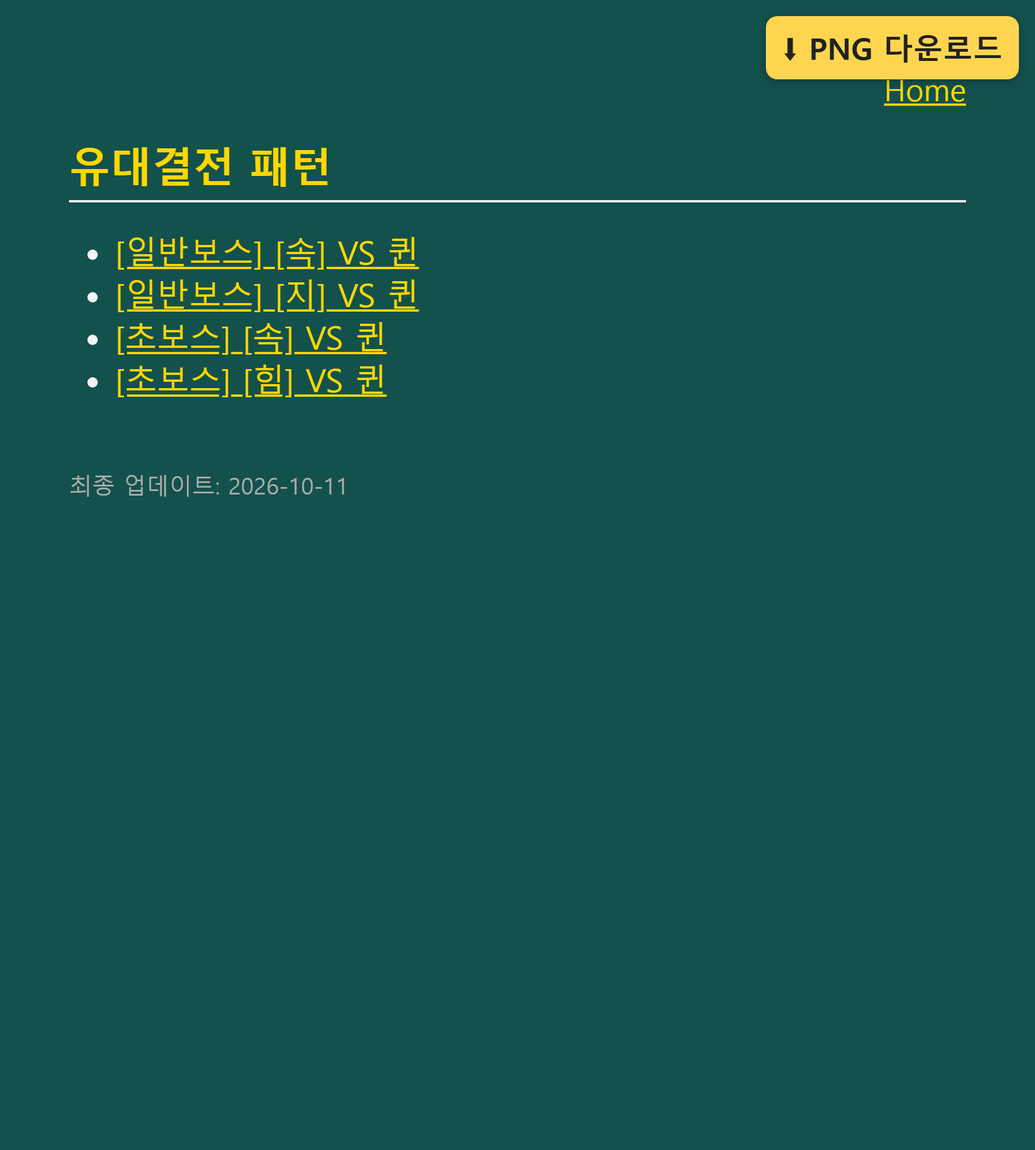
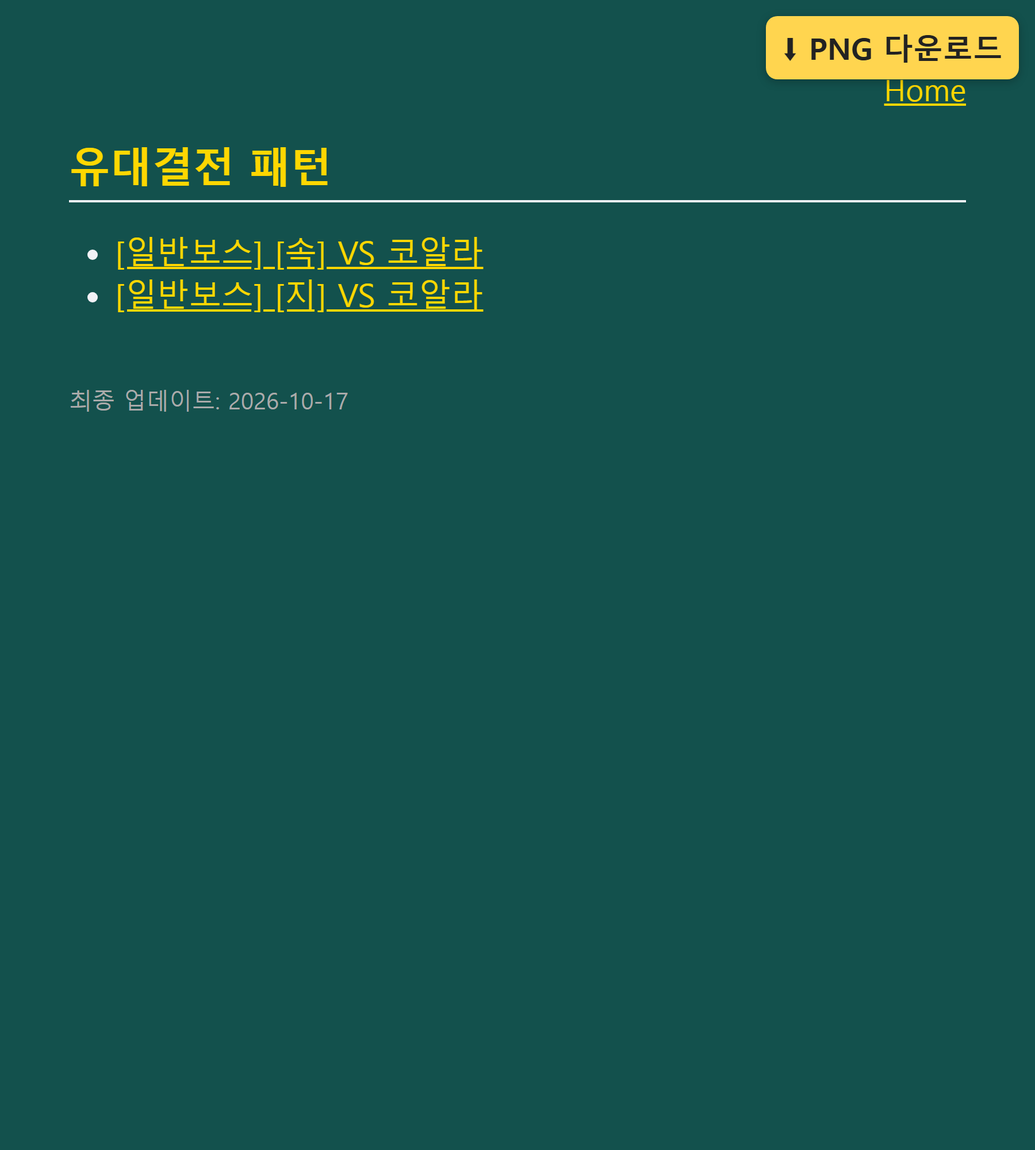
변경

Changed region(s): [[0.0622, 0.279, 0.3733, 0.372], [0.3733, 0.186, 0.4667, 0.279], [0.0622, 0.403, 0.3111, 0.434]]

diff --git a/KIZUNA_BOSS2.html b/KIZUNA_BOSS2.html
@@ -17,7 +17,7 @@
 </style>
 </head>
 <body>
-       <h1>VS 퀸</h1>
+       <h1>VS 코알라</h1>
        <div style="font-size: 32px; color: #f9f871; font-weight: bold; margin-bottom: 12px;"><span style="color:#7515A1; font-weight:bold;">일반보스</span> <span style="color:#7515A1; font-weight:bold;">[지]</span></div>
 <h3>Stage 1:</h3>
 <span class="label-preemptive">선제 행동:</span><br>
@@ -27,30 +27,36 @@
 <div class="icon-line"><img src="img/common_run.png">도주</div>
 <br>
 <h3>Stage 2:</h3>
-<span class="label-initial" style="color:#87cefa">초기 상태: 샬롯 페로스페로</span><br>
+<span class="label-initial" style="color:#87cefa">초기 상태: 소울 킹 할로윈 아티스트</span><br>
 <div class="icon-line"><img src="img/common_icon_mighty_guard_00.png">상태이상 무효</div>
 <div class="icon-line"><img src="img/common_icon_damage_onlyone.png">일반 공격 이외의 데미지 1</div>
 <span class="label-preemptive">선제 행동:</span><br>
-<div class="icon-line"><img src="img/common_despair.png">9턴 동안 상단의 선장효과 무효</div>
-<div class="icon-line"><img src="img/common_palsy.png">6턴 동안 마비</div>
-<div class="icon-line"><img src="img/common_special_reverse.png">필살기 턴을 3턴 되돌리기</div>
-<div class="icon-line"><img src="img/popuptext_slot_cooperation.png">[공백][힘][기][속][심][지][G][고기][연][폭탄] 슬롯을 [연] 슬롯으로 변환</div>
-<div class="icon-line"><img src="img/common_slot_lock.png">1턴 동안 슬롯 고정</div>
+<div class="icon-line"><img src="img/common_damage.png">남은 체력의 50% 비율 데미지</div>
+<div class="icon-line"><img src="img/common_guts_icon.png">3턴 동안 남은 체력 1로 버티기 효과</div>
+<div class="icon-line"><img src="img/common_territory.png">1턴 동안 장소를 ‘구역: 적’(으)로 만든다</div>
+<div class="icon-line"><img src="img/popuptext_slot_obstacle.png">[공백][힘][기][속][심][지][G][고기][연][폭탄] 슬롯을 [방해] 슬롯으로 변환</div>
 <br>
 <h3>Stage 3:</h3>
 <div style="color: gold; font-weight: bold;">Lv1~Lv20의 경우</div>
-<span class="label-initial" style="color:#87cefa">초기 상태: 퀸</span><br>
-<div class="icon-line"><img src="img/common_icon_mighty_guard_00.png">상태이상 무효</div>
+<span class="label-initial" style="color:#87cefa">초기 상태: 코알라 할로윈 배틀 파티</span><br>
 <div class="icon-line"><img src="img/common_icon_damage_onlyone.png">일반 공격 이외의 데미지 1</div>
 <div class="icon-line"><img src="img/common_icon_death_invalid.png">격파(전투 불능)계의 필살기 무효</div>
 <div class="icon-line"><img src="img/common_icon_ratio_damagedown.png">비율 데미지 내성 100%</div>
-<div class="icon-line"><img src="img/common_weak_03.png">약점 타입: 타격형</div>
+<div class="icon-line"><img src="img/common_weak_07.png">약점 타입: 박식형</div>
+<span class="label-preemptive" style="color:#87cefa">선제 행동: 일당의 체력이 70% 이하일 때</span><br>
+<div class="icon-line"><img src="img/common_icon_mighty_guard_00.png">상태이상 무효</div>
+<div class="icon-line"><img src="img/state_icon_invincible.png">2턴 동안 받는 데미지 무효</div>
+<div class="icon-line"><img src="img/common_icon_deffence_up.png">3턴 동안 방어력 10000000배</div>
+<div class="icon-line"><img src="img/common_icon_247_skill.png">2턴 동안 [힘][기][속][심][지][무지개][고기][연] 슬롯으로 공격했을 때 데미지 90% 감소</div>
+<div class="icon-line"><img src="img/common_damagecut_icon.png">6턴 동안 1000을(를) 넘는 데미지를 99% 감소</div>
+<div class="icon-line"><img src="img/common_state_icon_attack_down.png">6턴 동안 공격력 90% 감소</div>
+<div class="icon-line"><img src="img/popuptext_slot_meat.png">[공백][힘][기][속][심][지][G][고기][연][폭탄] 슬롯을 [고기] 슬롯으로 변환</div>
 <span class="label-preemptive">선제 행동:</span><br>
-<div class="icon-line"><img src="img/popuptext_slot_obstacle.png">[공백][힘][기][속][심][지][G][고기][연][폭탄] 슬롯을 [방해] 슬롯으로 변환</div>
-<div class="icon-line"><img src="img/common_bind.png">9턴 동안 중간단 봉쇄</div>
-<div class="icon-line"><img src="img/common_damagecut_icon.png">5턴 동안 1000을(를) 넘는 데미지를 99% 감소</div>
-<div class="icon-line"><img src="img/common_icon_deffence_up.png">5턴 동안 방어력 10000000배</div>
-<div class="icon-line"><img src="img/quest_combo_barrier_meat.png">2턴 동안 슬롯 배리어([고기] 슬롯 1회)</div>
+<div class="icon-line"><img src="img/common_icon_210.png">피해 데미지 증가 이외의 상태이상 무효</div>
+<div class="icon-line"><img src="img/state_icon_invincible.png">2턴 동안 받는 데미지 무효</div>
+<div class="icon-line"><img src="img/common_icon_deffence_up.png">3턴 동안 방어력 10000000배</div>
+<div class="icon-line"><img src="img/common_icon_247_skill.png">2턴 동안 [무지개][고기][연] 슬롯으로 공격했을 때 데미지 90% 감소</div>
+<div class="icon-line"><img src="img/popuptext_slot_meat.png">[공백][힘][기][속][심][지][G][고기][연][폭탄] 슬롯을 [고기] 슬롯으로 변환</div>
 <span class="label-special" style="color:#87cefa">특수 끼어들기: 아군이 일반 공격 이외의 데미지 1 상태가 아닐 경우(필살기, 초월 필살기, VS 효과, 체인지/슈퍼 체인지 발동 후)</span><br>
 <div class="icon-line">횟수 무제한</div>
 <div class="icon-line"><img src="img/common_heal.png">체력을 전부 회복</div>
@@ -60,18 +66,25 @@
 <br>
 <h3>Stage 3:</h3>
 <div style="color: gold; font-weight: bold;">Lv21~Lv30의 경우</div>
-<span class="label-initial" style="color:#87cefa">초기 상태: 퀸</span><br>
-<div class="icon-line"><img src="img/common_icon_mighty_guard_00.png">상태이상 무효</div>
+<span class="label-initial" style="color:#87cefa">초기 상태: 코알라 할로윈 배틀 파티</span><br>
 <div class="icon-line"><img src="img/common_icon_damage_onlyone.png">일반 공격 이외의 데미지 1</div>
 <div class="icon-line"><img src="img/common_icon_death_invalid.png">격파(전투 불능)계의 필살기 무효</div>
 <div class="icon-line"><img src="img/common_icon_ratio_damagedown.png">비율 데미지 내성 100%</div>
-<div class="icon-line"><img src="img/common_weak_03.png">약점 타입: 타격형</div>
+<div class="icon-line"><img src="img/common_weak_07.png">약점 타입: 박식형</div>
+<span class="label-preemptive" style="color:#87cefa">선제 행동: 일당의 체력이 70% 이하일 때</span><br>
+<div class="icon-line"><img src="img/common_icon_mighty_guard_00.png">상태이상 무효</div>
+<div class="icon-line"><img src="img/state_icon_invincible.png">4턴 동안 받는 데미지 무효</div>
+<div class="icon-line"><img src="img/common_icon_deffence_up.png">3턴 동안 방어력 10000000배</div>
+<div class="icon-line"><img src="img/common_icon_247_skill.png">2턴 동안 [힘][기][속][심][지][무지개][고기][연] 슬롯으로 공격했을 때 데미지 90% 감소</div>
+<div class="icon-line"><img src="img/common_damagecut_icon.png">6턴 동안 1000을(를) 넘는 데미지를 99% 감소</div>
+<div class="icon-line"><img src="img/common_state_icon_attack_down.png">6턴 동안 공격력 90% 감소</div>
+<div class="icon-line"><img src="img/popuptext_slot_meat.png">[공백][힘][기][속][심][지][G][고기][연][폭탄] 슬롯을 [고기] 슬롯으로 변환</div>
 <span class="label-preemptive">선제 행동:</span><br>
-<div class="icon-line"><img src="img/popuptext_slot_obstacle.png">[공백][힘][기][속][심][지][G][고기][연][폭탄] 슬롯을 [방해] 슬롯으로 변환</div>
-<div class="icon-line"><img src="img/common_bind.png">9턴 동안 중간단 봉쇄</div>
-<div class="icon-line"><img src="img/common_damagecut_icon.png">5턴 동안 1000을(를) 넘는 데미지를 99% 감소</div>
-<div class="icon-line"><img src="img/common_icon_deffence_up.png">7턴 동안 방어력 10000000배</div>
-<div class="icon-line"><img src="img/quest_combo_barrier_meat.png">4턴 동안 슬롯 배리어([고기] 슬롯 1회)</div>
+<div class="icon-line"><img src="img/common_icon_210.png">피해 데미지 증가 이외의 상태이상 무효</div>
+<div class="icon-line"><img src="img/state_icon_invincible.png">4턴 동안 받는 데미지 무효</div>
+<div class="icon-line"><img src="img/common_icon_deffence_up.png">3턴 동안 방어력 10000000배</div>
+<div class="icon-line"><img src="img/common_icon_247_skill.png">2턴 동안 [무지개][고기][연] 슬롯으로 공격했을 때 데미지 90% 감소</div>
+<div class="icon-line"><img src="img/popuptext_slot_meat.png">[공백][힘][기][속][심][지][G][고기][연][폭탄] 슬롯을 [고기] 슬롯으로 변환</div>
 <span class="label-special" style="color:#87cefa">특수 끼어들기: 아군이 일반 공격 이외의 데미지 1 상태가 아닐 경우(필살기, 초월 필살기, VS 효과, 체인지/슈퍼 체인지 발동 후)</span><br>
 <div class="icon-line">횟수 무제한</div>
 <div class="icon-line"><img src="img/common_heal.png">체력을 전부 회복</div>
@@ -81,19 +94,29 @@
 <br>
 <h3>Stage 3:</h3>
 <div style="color: gold; font-weight: bold;">Lv31~의 경우</div>
-<span class="label-initial" style="color:#87cefa">초기 상태: 퀸</span><br>
-<div class="icon-line"><img src="img/common_icon_mighty_guard_00.png">상태이상 무효</div>
+<span class="label-initial" style="color:#87cefa">초기 상태: 코알라 할로윈 배틀 파티</span><br>
 <div class="icon-line"><img src="img/common_icon_damage_onlyone.png">일반 공격 이외의 데미지 1</div>
 <div class="icon-line"><img src="img/common_icon_death_invalid.png">격파(전투 불능)계의 필살기 무효</div>
 <div class="icon-line"><img src="img/common_icon_ratio_damagedown.png">비율 데미지 내성 100%</div>
-<div class="icon-line"><img src="img/common_weak_03.png">약점 타입: 타격형</div>
+<div class="icon-line"><img src="img/common_weak_07.png">약점 타입: 박식형</div>
+<span class="label-preemptive" style="color:#87cefa">선제 행동: 일당의 체력이 70% 이하일 때</span><br>
+<div class="icon-line"><img src="img/common_icon_mighty_guard_00.png">상태이상 무효</div>
+<div class="icon-line"><img src="img/state_icon_invincible.png">4턴 동안 받는 데미지 무효</div>
+<div class="icon-line"><img src="img/common_icon_deffence_up.png">3턴 동안 방어력 10000000배</div>
+<div class="icon-line"><img src="img/common_icon_247_skill.png">2턴 동안 [힘][기][속][심][지][무지개][고기][연] 슬롯으로 공격했을 때 데미지 90% 감소</div>
+<div class="icon-line"><img src="img/common_damagecut_icon.png">6턴 동안 1000을(를) 넘는 데미지를 99% 감소</div>
+<div class="icon-line"><img src="img/common_state_icon_attack_down.png">6턴 동안 공격력 90% 감소</div>
+<div class="icon-line"><img src="img/common_palsy.png">6턴 동안 마비</div>
+<div class="icon-line"><img src="img/common_bind.png">10턴 동안 좌측 봉쇄</div>
+<div class="icon-line"><img src="img/popuptext_slot_meat.png">[공백][힘][기][속][심][지][G][고기][연][폭탄] 슬롯을 [고기] 슬롯으로 변환</div>
 <span class="label-preemptive">선제 행동:</span><br>
-<div class="icon-line"><img src="img/popuptext_slot_obstacle.png">[공백][힘][기][속][심][지][G][고기][연][폭탄] 슬롯을 [방해] 슬롯으로 변환</div>
-<div class="icon-line"><img src="img/common_bind.png">9턴 동안 중간단 봉쇄</div>
-<div class="icon-line"><img src="img/common_damagecut_icon.png">5턴 동안 1000을(를) 넘는 데미지를 99% 감소</div>
-<div class="icon-line"><img src="img/common_icon_deffence_up.png">9턴 동안 방어력 10000000배</div>
-<div class="icon-line"><img src="img/common_territory.png">3턴 동안 장소를 ‘구역: 적’(으)로 만든다</div>
-<div class="icon-line"><img src="img/quest_combo_barrier_meat.png">4턴 동안 슬롯 배리어([고기] 슬롯 1회)</div>
+<div class="icon-line"><img src="img/common_icon_210.png">피해 데미지 증가 이외의 상태이상 무효</div>
+<div class="icon-line"><img src="img/state_icon_invincible.png">4턴 동안 받는 데미지 무효</div>
+<div class="icon-line"><img src="img/common_icon_deffence_up.png">3턴 동안 방어력 10000000배</div>
+<div class="icon-line"><img src="img/common_icon_247_skill.png">2턴 동안 [무지개][고기][연] 슬롯으로 공격했을 때 데미지 90% 감소</div>
+<div class="icon-line"><img src="img/common_palsy.png">6턴 동안 마비</div>
+<div class="icon-line"><img src="img/common_bind.png">10턴 동안 좌측 봉쇄</div>
+<div class="icon-line"><img src="img/popuptext_slot_meat.png">[공백][힘][기][속][심][지][G][고기][연][폭탄] 슬롯을 [고기] 슬롯으로 변환</div>
 <span class="label-special" style="color:#87cefa">특수 끼어들기: 아군이 일반 공격 이외의 데미지 1 상태가 아닐 경우(필살기, 초월 필살기, VS 효과, 체인지/슈퍼 체인지 발동 후)</span><br>
 <div class="icon-line">횟수 무제한</div>
 <div class="icon-line"><img src="img/common_heal.png">체력을 전부 회복</div>

diff --git a/KIZUNA_BOSS1.html b/KIZUNA_BOSS1.html
@@ -17,45 +17,38 @@
 </style>
 </head>
 <body>
-       <h1>VS 퀸</h1>
+       <h1>VS 코알라</h1>
        <div style="font-size: 32px; color: #f9f871; font-weight: bold; margin-bottom: 12px;"><span style="color:#0329fd; font-weight:bold;">일반보스</span> <span style="color:#0329fd; font-weight:bold;">[속]</span></div>
 <h3>Stage 1:</h3>
 <span class="label-preemptive">선제 행동:</span><br>
-<div class="icon-line"><img src="img/common_special_charge.png">타격형, 박식형 캐릭터의 필살기 턴을 10턴 단축</div>
-<div class="icon-line"><img src="img/common_change_charge.png">타격형, 박식형 캐릭터의 슈퍼 체인지 효과를 10 단축</div>
-<div class="icon-line"><img src="img/characterbox_icon_vs.png">타격형, 박식형 캐릭터의 VS 효과의 게이지를 10 단축</div>
+<div class="icon-line"><img src="img/common_special_charge.png">자유형, 박식형, 강인형 캐릭터의 필살기 턴을 10턴 단축</div>
+<div class="icon-line"><img src="img/common_change_charge.png">자유형, 박식형, 강인형 캐릭터의 슈퍼 체인지 효과를 10 단축</div>
+<div class="icon-line"><img src="img/characterbox_icon_vs.png">자유형, 박식형, 강인형 캐릭터의 VS 효과의 게이지를 10 단축</div>
 <div class="icon-line"><img src="img/common_run.png">도주</div>
 <br>
 <h3>Stage 2:</h3>
-<span class="label-initial" style="color:#87cefa">초기 상태: 페이지 원</span><br>
+<span class="label-initial" style="color:#87cefa">초기 상태: 보니 할로윈 디너 뷔페</span><br>
 <div class="icon-line"><img src="img/common_icon_mighty_guard_00.png">상태이상 무효</div>
 <div class="icon-line"><img src="img/common_icon_damage_onlyone.png">일반 공격 이외의 데미지 1</div>
 <span class="label-preemptive">선제 행동:</span><br>
-<div class="icon-line"><img src="img/common_icon_deffence_up.png">6턴 동안 방어력 10000000배</div>
-<div class="icon-line"><img src="img/popuptext_slot_palsy.png">[공백][힘][기][속][심][지][G][고기][연][폭탄] 슬롯을 [마비] 슬롯으로 변환</div>
-<div class="icon-line"><img src="img/common_icon_hungry.png">1개의 [고기][셈라]를 얻기 전까지 매 턴 남은 체력의 30% 감소, 공격력 90% 감소</div>
+<div class="icon-line"><img src="img/common_icon_247_skill.png">2턴 동안 [힘][기][속][심][지] 슬롯으로 공격했을 때 데미지 90% 감소</div>
+<div class="icon-line"><img src="img/common_slot_lock.png">1턴 동안 슬롯 고정</div>
+<div class="icon-line"><img src="img/popuptext_slot_meat.png">[공백][힘][기][속][심][지][G][고기][연][폭탄] 슬롯을 [고기] 슬롯으로 변환</div>
+<div class="icon-line"><img src="img/quest_combo_barrier_skill.png">3턴 동안 슬롯 배리어([기] 슬롯 2회)</div>
 <br>
 <h3>Stage 3:</h3>
 <div style="color: gold; font-weight: bold;">Lv1~Lv20의 경우</div>
-<span class="label-initial" style="color:#87cefa">초기 상태: 퀸</span><br>
-<div class="icon-line"><img src="img/common_icon_210.png">적의 방어력 감소 이외의 상태이상 무효</div>
+<span class="label-initial" style="color:#87cefa">초기 상태: 코알라 할로윈 배틀 파티</span><br>
+<div class="icon-line"><img src="img/common_icon_210.png">피해 데미지 증가 이외의 상태이상 무효</div>
 <div class="icon-line"><img src="img/common_icon_damage_onlyone.png">일반 공격 이외의 데미지 1</div>
 <div class="icon-line"><img src="img/common_icon_death_invalid.png">격파(전투 불능)계의 필살기 무효</div>
 <div class="icon-line"><img src="img/common_icon_ratio_damagedown.png">비율 데미지 내성 100%</div>
-<div class="icon-line"><img src="img/common_weak_07.png">약점 타입: 박식형</div>
+<div class="icon-line"><img src="img/common_weak_05.png">약점 타입: 자유형</div>
 <span class="label-preemptive">선제 행동:</span><br>
-<div class="icon-line"><img src="img/popuptext_slot_obstacle.png">[공백][힘][기][속][심][지][G][고기][연][폭탄] 슬롯을 [방해] 슬롯으로 변환</div>
-<div class="icon-line"><img src="img/common_damage.png">일당의 턴 종료 시 추가 데미지 해제</div>
-<div class="icon-line"><img src="img/common_icon_235_skill.png">3턴 동안 일반 탭 이외의 조작을 하면 해당 행동 후에 최대 HP의 20%의 데미지를 받는다</div>
-<div class="icon-line"><img src="img/common_icon_damagecut_dummy.png">5턴 동안 받는 데미지를 90% 감소</div>
-<div class="icon-line"><img src="img/common_guts_icon.png">3턴 동안 남은 체력 1로 버티기 효과</div>
-<div class="icon-line"><img src="img/quest_combo_barrier_2.png">2턴 동안 탭 타이밍 배리어(GREAT 3회)</div>
-<span class="label-special" style="color:#87cefa">특수 끼어들기: 방어력 감소, 강제 방어력 감소</span><br>
-<div class="icon-line">1회까지</div>
-<div class="icon-line"><img src="img/common_stun.png">중간단은(는) 받는 데미지 3배의 기절</div>
-<span class="label-special" style="color:#87cefa">특수 끼어들기: 열상, 턴 종료 시 추가 데미지</span><br>
-<div class="icon-line">횟수 무제한</div>
-<div class="icon-line"><img src="img/common_damage.png">열상, 일당의 턴 종료 시 추가 데미지 해제</div>
+<div class="icon-line"><img src="img/common_bind.png">10턴 동안 좌측 봉쇄</div>
+<div class="icon-line"><img src="img/common_palsy.png">6턴 동안 마비</div>
+<div class="icon-line"><img src="img/popuptext_slot_obstacle.png">[고기] 슬롯을 [방해] 슬롯으로 변환</div>
+<div class="icon-line"><img src="img/quest_combo_barrier_2.png">1턴 동안 탭 타이밍 배리어(GREAT 3회)</div>
 <span class="label-special" style="color:#87cefa">특수 끼어들기: 아군이 일반 공격 이외의 데미지 1 상태가 아닐 경우(필살기, 초월 필살기, VS 효과, 체인지/슈퍼 체인지 발동 후)</span><br>
 <div class="icon-line">횟수 무제한</div>
 <div class="icon-line"><img src="img/common_heal.png">체력을 전부 회복</div>
@@ -65,25 +58,18 @@
 <br>
 <h3>Stage 3:</h3>
 <div style="color: gold; font-weight: bold;">Lv21~Lv30의 경우</div>
-<span class="label-initial" style="color:#87cefa">초기 상태: 퀸</span><br>
-<div class="icon-line"><img src="img/common_icon_210.png">적의 방어력 감소 이외의 상태이상 무효</div>
+<span class="label-initial" style="color:#87cefa">초기 상태: 코알라 할로윈 배틀 파티</span><br>
+<div class="icon-line"><img src="img/common_icon_210.png">피해 데미지 증가 이외의 상태이상 무효</div>
 <div class="icon-line"><img src="img/common_icon_damage_onlyone.png">일반 공격 이외의 데미지 1</div>
 <div class="icon-line"><img src="img/common_icon_death_invalid.png">격파(전투 불능)계의 필살기 무효</div>
 <div class="icon-line"><img src="img/common_icon_ratio_damagedown.png">비율 데미지 내성 100%</div>
-<div class="icon-line"><img src="img/common_weak_07.png">약점 타입: 박식형</div>
+<div class="icon-line"><img src="img/common_weak_05.png">약점 타입: 자유형</div>
 <span class="label-preemptive">선제 행동:</span><br>
-<div class="icon-line"><img src="img/popuptext_slot_obstacle.png">[공백][힘][기][속][심][지][G][고기][연][폭탄] 슬롯을 [방해] 슬롯으로 변환</div>
-<div class="icon-line"><img src="img/common_damage.png">일당의 턴 종료 시 추가 데미지 해제</div>
-<div class="icon-line"><img src="img/common_icon_235_skill.png">3턴 동안 일반 탭 이외의 조작을 하면 해당 행동 후에 최대 HP의 20%의 데미지를 받는다</div>
-<div class="icon-line"><img src="img/common_icon_damagecut_dummy.png">5턴 동안 받는 데미지를 90% 감소</div>
-<div class="icon-line"><img src="img/common_guts_icon.png">3턴 동안 남은 체력 1로 버티기 효과</div>
-<div class="icon-line"><img src="img/quest_combo_barrier_2.png">3턴 동안 탭 타이밍 배리어(GREAT 3회)</div>
-<span class="label-special" style="color:#87cefa">특수 끼어들기: 방어력 감소, 강제 방어력 감소</span><br>
-<div class="icon-line">1회까지</div>
-<div class="icon-line"><img src="img/common_stun.png">중간단은(는) 받는 데미지 3배의 기절</div>
-<span class="label-special" style="color:#87cefa">특수 끼어들기: 열상, 턴 종료 시 추가 데미지</span><br>
-<div class="icon-line">횟수 무제한</div>
-<div class="icon-line"><img src="img/common_damage.png">열상, 일당의 턴 종료 시 추가 데미지 해제</div>
+<div class="icon-line"><img src="img/common_territory.png">3턴 동안 장소를 ‘구역: 적’(으)로 만든다</div>
+<div class="icon-line"><img src="img/common_bind.png">10턴 동안 좌측 봉쇄</div>
+<div class="icon-line"><img src="img/common_palsy.png">10턴 동안 마비</div>
+<div class="icon-line"><img src="img/popuptext_slot_obstacle.png">[고기] 슬롯을 [방해] 슬롯으로 변환</div>
+<div class="icon-line"><img src="img/quest_combo_barrier_2.png">1턴 동안 탭 타이밍 배리어(GREAT 3회)</div>
 <span class="label-special" style="color:#87cefa">특수 끼어들기: 아군이 일반 공격 이외의 데미지 1 상태가 아닐 경우(필살기, 초월 필살기, VS 효과, 체인지/슈퍼 체인지 발동 후)</span><br>
 <div class="icon-line">횟수 무제한</div>
 <div class="icon-line"><img src="img/common_heal.png">체력을 전부 회복</div>
@@ -93,25 +79,19 @@
 <br>
 <h3>Stage 3:</h3>
 <div style="color: gold; font-weight: bold;">Lv31~의 경우</div>
-<span class="label-initial" style="color:#87cefa">초기 상태: 퀸</span><br>
-<div class="icon-line"><img src="img/common_icon_210.png">적의 방어력 감소 이외의 상태이상 무효</div>
+<span class="label-initial" style="color:#87cefa">초기 상태: 코알라 할로윈 배틀 파티</span><br>
+<div class="icon-line"><img src="img/common_icon_210.png">피해 데미지 증가 이외의 상태이상 무효</div>
 <div class="icon-line"><img src="img/common_icon_damage_onlyone.png">일반 공격 이외의 데미지 1</div>
 <div class="icon-line"><img src="img/common_icon_death_invalid.png">격파(전투 불능)계의 필살기 무효</div>
 <div class="icon-line"><img src="img/common_icon_ratio_damagedown.png">비율 데미지 내성 100%</div>
-<div class="icon-line"><img src="img/common_weak_07.png">약점 타입: 박식형</div>
+<div class="icon-line"><img src="img/common_weak_05.png">약점 타입: 자유형</div>
 <span class="label-preemptive">선제 행동:</span><br>
-<div class="icon-line"><img src="img/popuptext_slot_obstacle.png">[공백][힘][기][속][심][지][G][고기][연][폭탄] 슬롯을 [방해] 슬롯으로 변환</div>
-<div class="icon-line"><img src="img/common_damage.png">일당의 턴 종료 시 추가 데미지 해제</div>
-<div class="icon-line"><img src="img/common_icon_235_skill.png">3턴 동안 일반 탭 이외의 조작을 하면 해당 행동 후에 최대 HP의 20%의 데미지를 받는다</div>
-<div class="icon-line"><img src="img/common_icon_damagecut_dummy.png">7턴 동안 받는 데미지를 90% 감소</div>
-<div class="icon-line"><img src="img/common_guts_icon.png">3턴 동안 남은 체력 1로 버티기 효과</div>
-<div class="icon-line"><img src="img/quest_combo_barrier_2.png">3턴 동안 탭 타이밍 배리어(GREAT 3회)</div>
-<span class="label-special" style="color:#87cefa">특수 끼어들기: 방어력 감소, 강제 방어력 감소</span><br>
-<div class="icon-line">1회까지</div>
-<div class="icon-line"><img src="img/common_stun.png">중간단은(는) 받는 데미지 3배의 기절</div>
-<span class="label-special" style="color:#87cefa">특수 끼어들기: 열상, 턴 종료 시 추가 데미지</span><br>
-<div class="icon-line">횟수 무제한</div>
-<div class="icon-line"><img src="img/common_damage.png">열상, 일당의 턴 종료 시 추가 데미지 해제</div>
+<div class="icon-line"><img src="img/common_territory.png">3턴 동안 장소를 ‘구역: 적’(으)로 만든다</div>
+<div class="icon-line"><img src="img/common_bind.png">10턴 동안 좌측 봉쇄</div>
+<div class="icon-line"><img src="img/common_palsy.png">10턴 동안 마비</div>
+<div class="icon-line"><img src="img/popuptext_slot_obstacle.png">[고기] 슬롯을 [방해] 슬롯으로 변환</div>
+<div class="icon-line"><img src="img/common_attack_up_01_icon.png">1턴 동안 일당의 공격력을 1.1배</div>
+<div class="icon-line"><img src="img/quest_combo_barrier_2.png">2턴 동안 탭 타이밍 배리어(GREAT 3회)</div>
 <span class="label-special" style="color:#87cefa">특수 끼어들기: 아군이 일반 공격 이외의 데미지 1 상태가 아닐 경우(필살기, 초월 필살기, VS 효과, 체인지/슈퍼 체인지 발동 후)</span><br>
 <div class="icon-line">횟수 무제한</div>
 <div class="icon-line"><img src="img/common_heal.png">체력을 전부 회복</div>

diff --git a/index.html b/index.html
@@ -8,7 +8,7 @@
       <a href="TM.html">
         <img src="img/common_TM_LOGO.png" style="height: 160px;">
       </a>
-      <div style="font-size: 20px; color: white; margin-top: 6px;">2026-10-14 18:00 ~ <br>2026-10-18 22:59<br>⚪ 예정</div>
+      <div style="font-size: 20px; color: white; margin-top: 6px;">2026-10-14 18:00 ~ <br>2026-10-18 22:59<br>🟢 개최 중</div>
     </div>
     <div>
       <a href="PKA.html">
@@ -20,9 +20,9 @@
       <a href="KIZUNA.html">
         <img src="img/common_KIZUNA_LOGO.png" style="height: 160px;">
       </a>
-      <div style="font-size: 20px; color: white; margin-top: 6px;">2026-09-23 12:00 ~ <br>2026-09-27 22:59<br>🔴 종료</div>
+      <div style="font-size: 20px; color: white; margin-top: 6px;">2026-10-21 12:00 ~ <br>2026-10-25 22:59<br>⚪ 예정</div>
     </div>
   </div>
-  <footer style="margin-top: 60px; font-size: 20px; color: #aaa;">최종 업데이트: 2026-10-11</footer>
+  <footer style="margin-top: 60px; font-size: 20px; color: #aaa;">최종 업데이트: 2026-10-17</footer>
 </body>
 </html>

diff --git a/KIZUNA.html b/KIZUNA.html
@@ -29,10 +29,8 @@
 
 <h1>유대결전 패턴</h1>
 <ul>
-<li><a href='KIZUNA_BOSS1.html' style='font-size:28px !important'>[일반보스] [속] VS 퀸</a></li>
-<li><a href='KIZUNA_BOSS2.html' style='font-size:28px !important'>[일반보스] [지] VS 퀸</a></li>
-<li><a href='KIZUNA_SUPERBOSS1.html' style='font-size:28px !important'>[초보스] [속] VS 퀸</a></li>
-<li><a href='KIZUNA_SUPERBOSS2.html' style='font-size:28px !important'>[초보스] [힘] VS 퀸</a></li>
+<li><a href='KIZUNA_BOSS1.html' style='font-size:28px !important'>[일반보스] [속] VS 코알라</a></li>
+<li><a href='KIZUNA_BOSS2.html' style='font-size:28px !important'>[일반보스] [지] VS 코알라</a></li>
 </ul>
-<footer style="margin-top: 60px; font-size: 20px; color: #aaa;">최종 업데이트: 2026-10-11</footer>
+<footer style="margin-top: 60px; font-size: 20px; color: #aaa;">최종 업데이트: 2026-10-17</footer>
 </body></html>

diff --git a/PKA.html b/PKA.html
@@ -33,6 +33,6 @@
 <ul>
   <li><a href='PKA_MID_BOSS2.html' style='font-size:24px'>VS 로키</a></li><li><a href='PKA_MID_BOSS1.html' style='font-size:24px'>VS 콜론</a></li>
 </ul>
-<footer style="margin-top: 60px; font-size: 20px; color: #aaa;">최종 업데이트: 2026-10-11</footer>
+<footer style="margin-top: 60px; font-size: 20px; color: #aaa;">최종 업데이트: 2026-10-17</footer>
 </body>
 </html>

diff --git a/TM.html b/TM.html
@@ -35,6 +35,6 @@
   <li><a href="TM_GL_full.html">위대한 항로</a></li>
   <li><a href="TM_EB_full.html">통통배</a></li>
 </ul>
-<footer style="margin-top: 60px; font-size: 20px; color: #aaa;">최종 업데이트: 2026-10-11</footer>
+<footer style="margin-top: 60px; font-size: 20px; color: #aaa;">최종 업데이트: 2026-10-17</footer>
 </body>
 </html>
